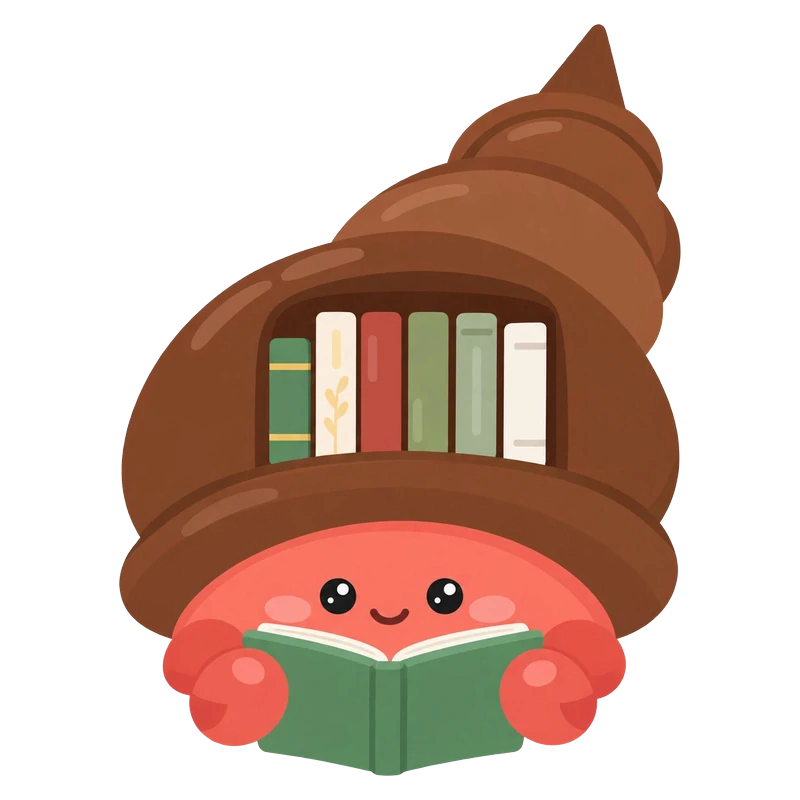
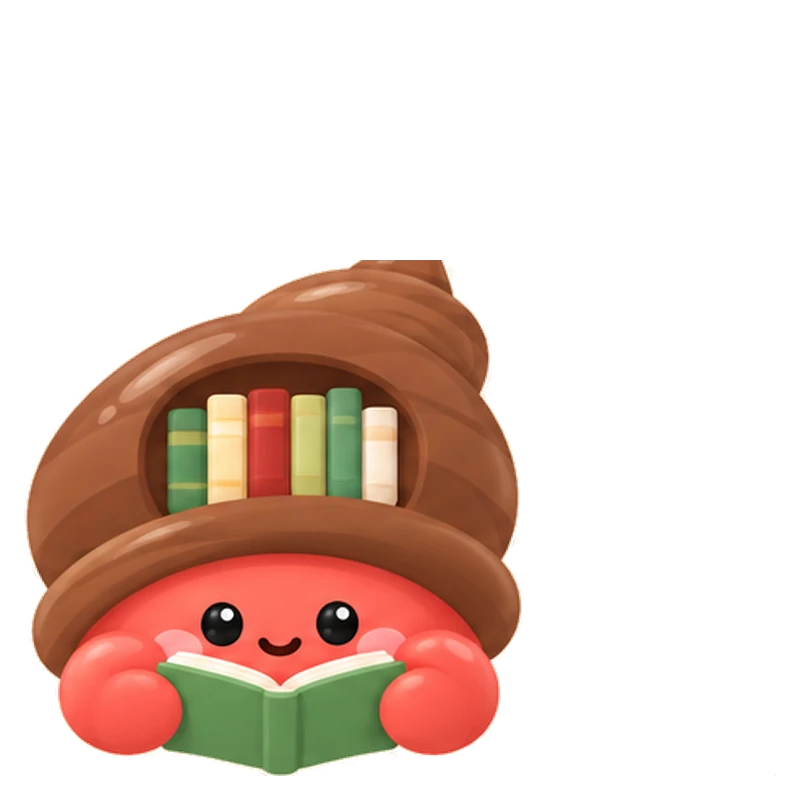
소라게 캐릭터 9종 새 그림으로, 세 칸 집 굴뚝 다듬기, 결과 — 저장은 자세히 알아보기 옆 아이콘 · 저장 이미지는 BEST 1만 · BEST 1 글자 키우기

diff --git a/src/pages/TestPage.tsx b/src/pages/TestPage.tsx
@@ -181,7 +181,8 @@ function Result({ result, shared, onRetry, focusRef }: { result: QuizResult; sha
 
   // 결과 이미지 한 장 — 저장하기 · 인스타그램 공유에 같이 씀
   const resultFile = async () => {
-    const ranked = [result.main, second?.id, third?.id].filter(Boolean) as ProgramId[];
+    // 저장 · 인스타 공유 이미지는 1위(BEST 1)만
+    const ranked: ProgramId[] = [result.main];
     const blob = await makeResultImage({
       lead: t.lead,
       brand: `${site.brandEn} · ${site.brand}`,
@@ -268,9 +269,15 @@ function Result({ result, shared, onRetry, focusRef }: { result: QuizResult; sha
         <p className="result__place">{programById[result.main].report.place.name}</p>
         {/* 게하 한 줄 소개 — 숙소 페이지 BASIC INFORMATION 과 같은 문장, 이름 바로 밑 */}
         {programById[result.main].report.oneLine && <p className="result__oneline">{programById[result.main].report.oneLine}</p>}
-        <a className="btn" href={href.stay(result.main)} data-track={`result_best01_${result.main}`}>
-          {t.detail} <span className="arrow" aria-hidden="true">→</span>
-        </a>
+        {/* 자세히 알아보기 · 그 오른쪽 저장(아이콘만) */}
+        <div className="result__cta">
+          <a className="btn" href={href.stay(result.main)} data-track={`result_best01_${result.main}`}>
+            {t.detail} <span className="arrow" aria-hidden="true">→</span>
+          </a>
+          <button type="button" className="result__save" onClick={save} aria-label={t.save} title={t.save} data-track="result_save">
+            <ActIcon name="save" />
+          </button>
+        </div>
       </header>
 
       <ol className="result__picks">
@@ -279,7 +286,7 @@ function Result({ result, shared, onRetry, focusRef }: { result: QuizResult; sha
         {third && <Pick rank="BEST 3" caption={t.thirdCaption} id={third.id} />}
       </ol>
 
-      {/* 내 결과 공유하기(카카오톡 · X · 링크) · 저장하기 — 2 · 3순위 카드 바로 밑 */}
+      {/* 내 결과 공유하기(카카오톡 · 인스타그램 · X) — 2 · 3순위 카드 바로 밑 */}
       <div className="result__actions">
         <div className="share">
           <p className="share__title">{t.shareTitle}</p>
@@ -295,10 +302,6 @@ function Result({ result, shared, onRetry, focusRef }: { result: QuizResult; sha
             </button>
           </div>
         </div>
-        <button type="button" className="btn btn--ghost result__save" onClick={save} data-track="result_save">
-          <ActIcon name="save" />
-          {t.save}
-        </button>
         <p className="result__status" role="status">{status}</p>
       </div>
 

diff --git a/src/styles/test.css b/src/styles/test.css
@@ -80,11 +80,11 @@
 .result__tags { display: flex; flex-wrap: wrap; justify-content: center; gap: 8px; margin: 0; padding: 0; list-style: none; }
 .result__tag { padding: 7px 14px; border-radius: 999px; background: rgba(240, 136, 58, .1); font-size: clamp(14px, 1.3vw, 15.5px); font-weight: 600; line-height: 1.3; letter-spacing: -0.01em; color: var(--orange-ink); }
 /* 1위 캐릭터 그림 — 배경 없이 오린 소라게, 비율 그대로 */
-.result__hero { position: relative; width: min(100%, 400px); margin-top: 10px; padding-top: 36px; }
+.result__hero { position: relative; width: min(100%, 400px); margin-top: 10px; padding-top: 48px; }
 .result__hero img { display: block; width: clamp(180px, 20vw, 220px); height: auto; margin: 0 auto; } /* 이야기 화면 소라게와 비슷한 크기 */
 /* 넓은 화면 — BEST 1 은 BEST 2 · 3(170px)보다 크게 */
 @media (min-width: 768px) { .result__hero img { width: 300px; } }
-.result__rank { position: absolute; left: 50%; top: 0; translate: -50% 0; padding: 5px 0; white-space: nowrap; font-size: clamp(16px, 1.6vw, 19px); font-weight: 700; letter-spacing: .1em; color: var(--orange-ink); }
+.result__rank { position: absolute; left: 50%; top: 0; translate: -50% 0; padding: 5px 0; white-space: nowrap; font-size: clamp(21px, 2.3vw, 27px); font-weight: 700; letter-spacing: .1em; color: var(--orange-ink); }
 .result__head .btn { margin-top: 10px; }
 
 .result__picks { display: grid; gap: 20px; }
@@ -147,5 +147,9 @@
 .share__btn--x svg { width: 24px; height: 24px; }
 .share__btn--insta { background: radial-gradient(circle at 30% 107%, #FDF497 0%, #FDF497 5%, #FD5949 45%, #D6249F 60%, #285AEB 90%); }
 .share__btn--insta svg { width: 28px; height: 28px; }
-.result__save { min-width: min(100%, 220px); margin-top: 6px; }
+/* 자세히 알아보기 · 저장(아이콘만, 같은 높이 동그라미) */
+.result__cta { display: flex; align-items: center; justify-content: center; gap: 10px; }
+.result__save { display: grid; place-items: center; flex: none; width: 46px; height: 46px; padding: 0; border: 1.5px solid var(--orange); border-radius: 50%; background: transparent; color: var(--orange-ink); cursor: pointer; transition: background var(--t-hover) var(--ease); }
+.result__save:hover { background: rgba(240, 136, 58, .12); }
+.result__save .result__icon { width: 20px; height: 20px; }
 .result__status { text-align: center; font-size: 14px; color: var(--ink-soft); min-height: 1.6em; }

diff --git a/src/lib/resultImage.ts b/src/lib/resultImage.ts
@@ -65,11 +65,13 @@ export async function makeResultImage(input: ResultImageInput): Promise<Blob> {
 
   const canvas = document.createElement('canvas');
   canvas.width = W;
-  canvas.height = H;
+  // 1위만 담을 때는 2 · 3위 자리 없이 짧게
+  const h = input.picks.length > 1 ? H : 1020;
+  canvas.height = h;
   const ctx = canvas.getContext('2d');
   if (!ctx) throw new Error('canvas');
   ctx.fillStyle = C.bg;
-  ctx.fillRect(0, 0, W, H);
+  ctx.fillRect(0, 0, W, h);
   ctx.textAlign = 'center';
   ctx.textBaseline = 'alphabetic';
 
@@ -127,7 +129,7 @@ export async function makeResultImage(input: ResultImageInput): Promise<Blob> {
   // 바닥 — 브랜드
   ctx.fillStyle = C.soft;
   ctx.font = `500 22px ${FONT}`;
-  ctx.fillText(input.brand, W / 2, H - 42);
+  ctx.fillText(input.brand, W / 2, h - 42);
 
   return new Promise((resolve, reject) => canvas.toBlob((b) => (b ? resolve(b) : reject(new Error('blob'))), 'image/png'));
 }
